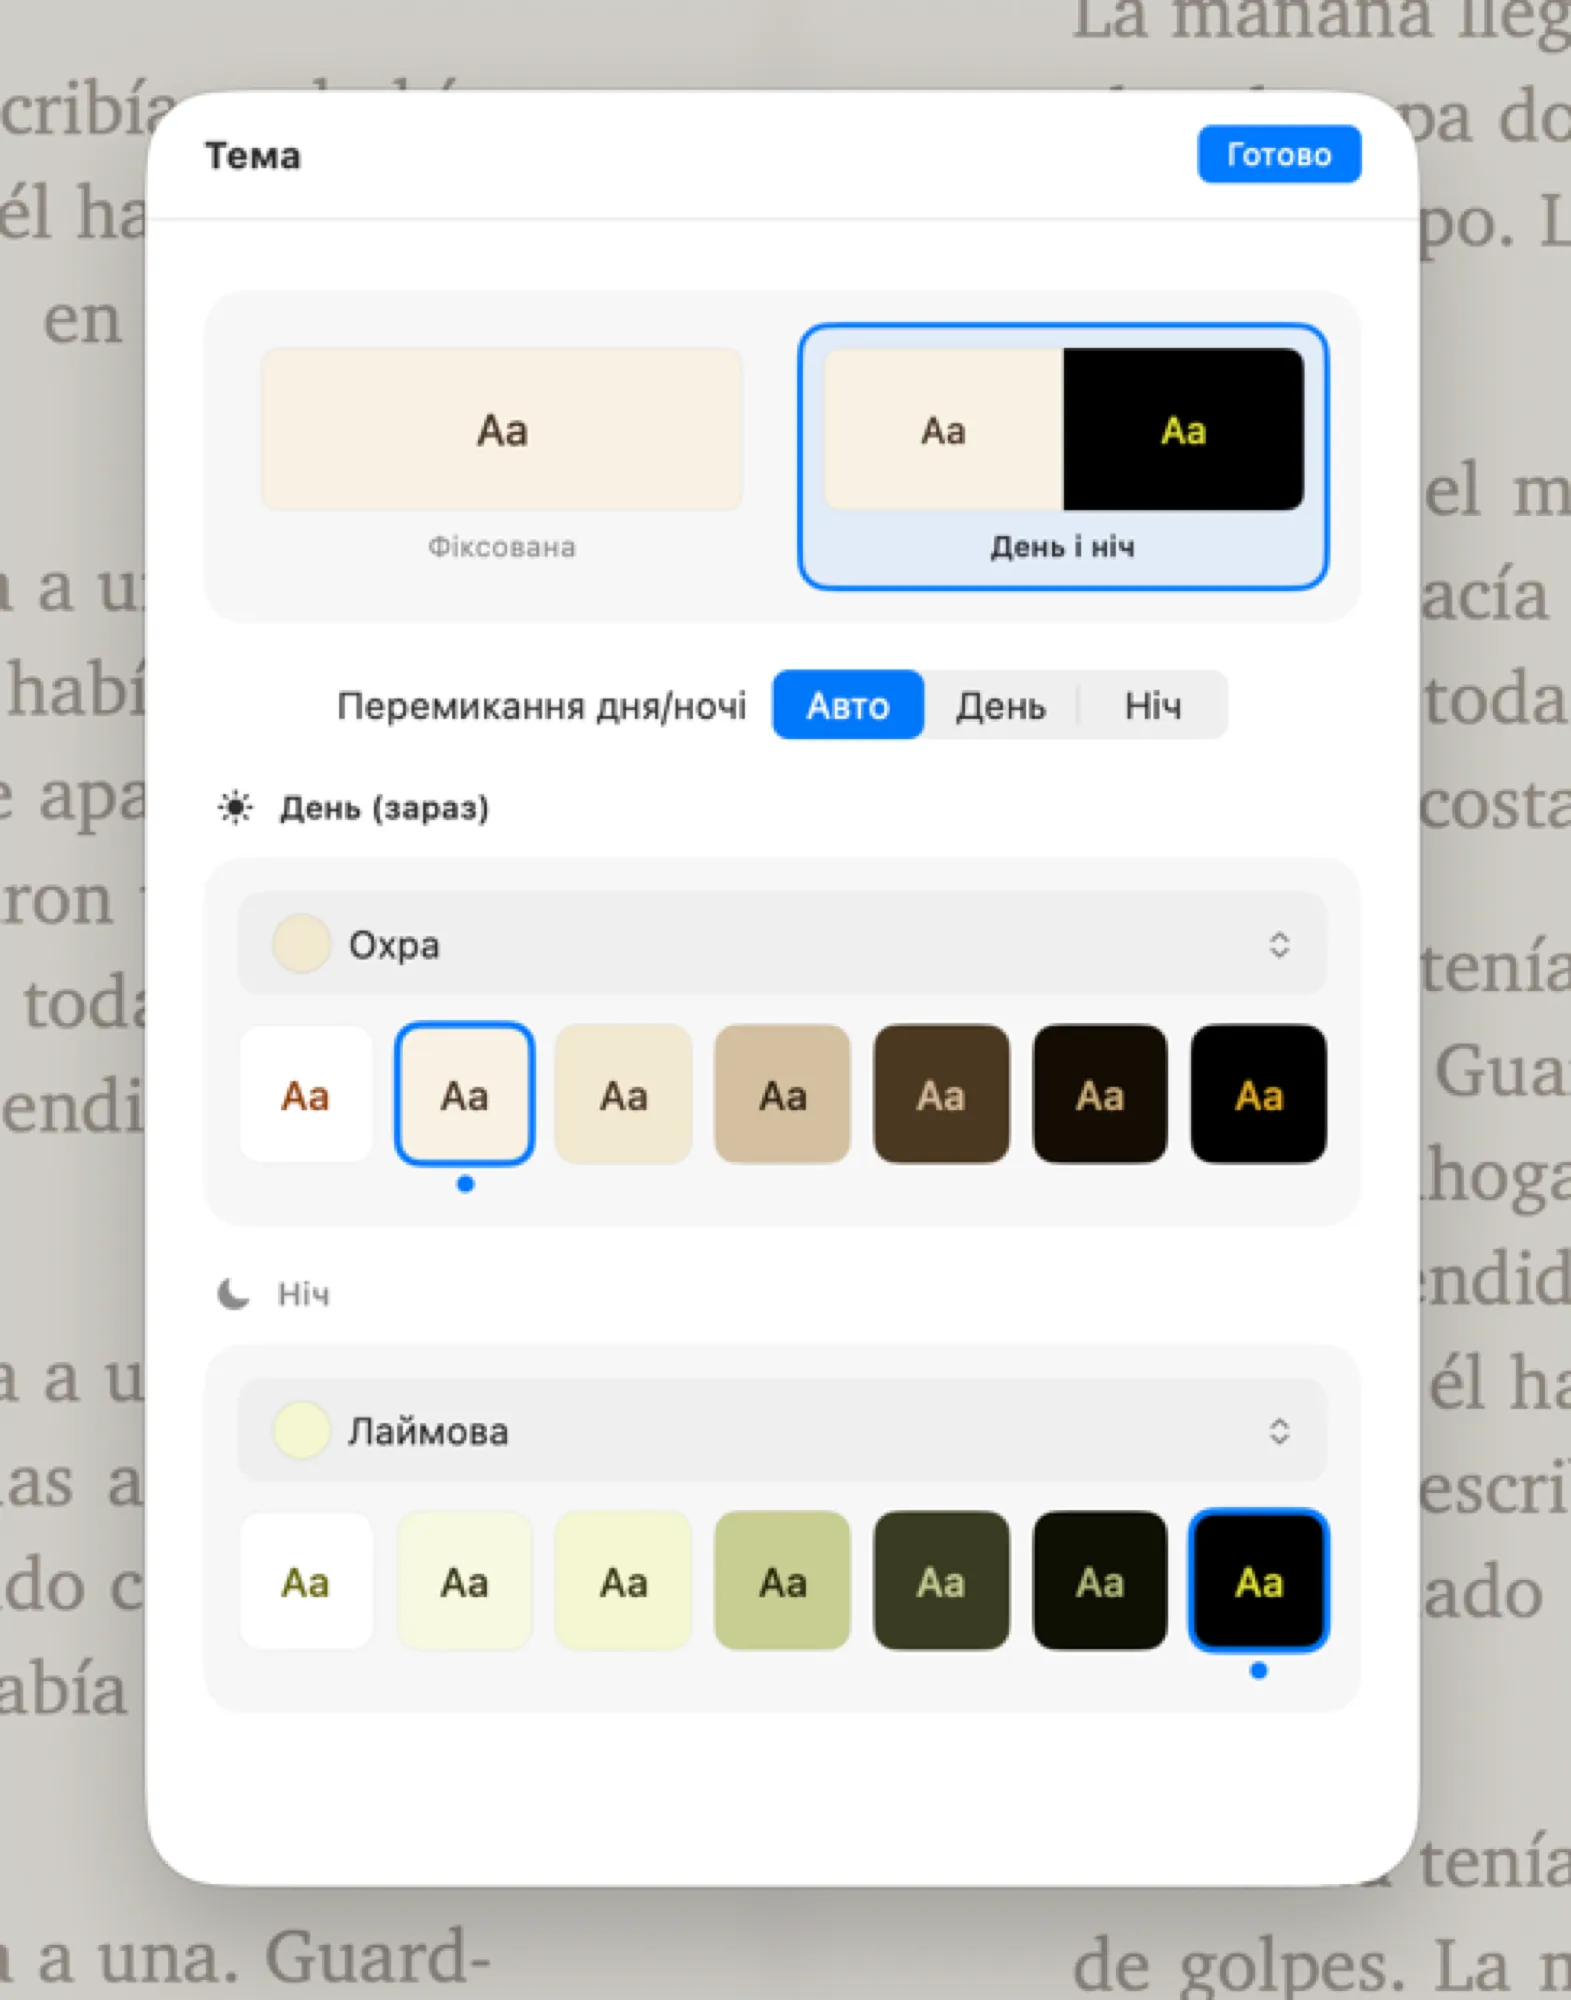
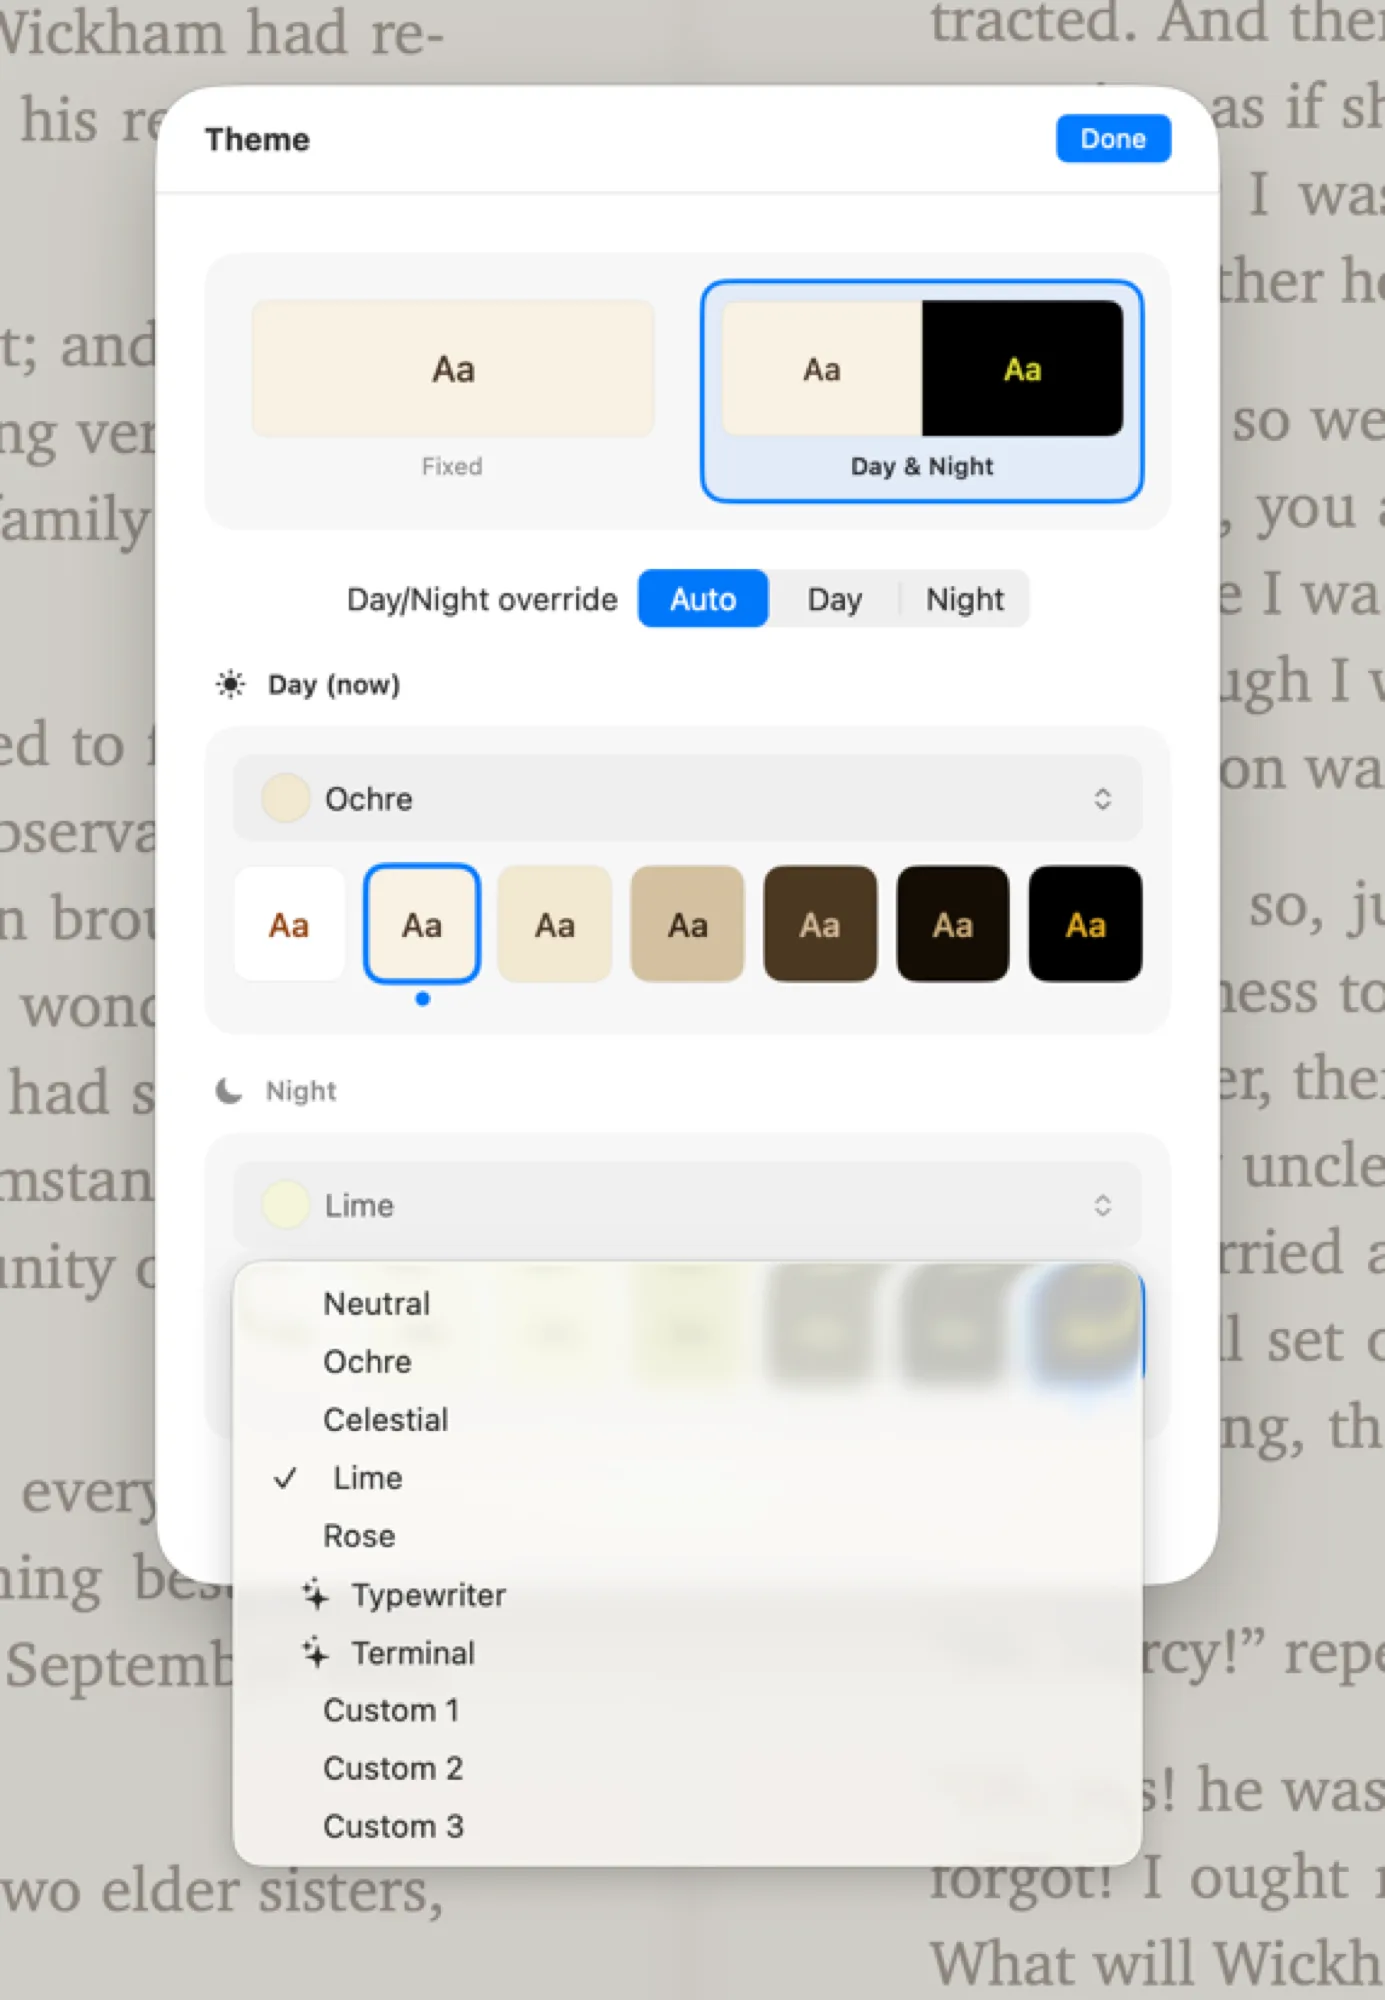
Lightbox: never display an image larger than its natural size
Cap the lightbox image at min(natural, viewport) in JS (computed on reveal +
on resize) so a screenshot is never scaled up past 100% of its own pixels —
which read as stretched/soft. The CSS max-width/max-height only capped to the
container, not to the image's intrinsic size.

Refs #1

diff --git a/js/main.js b/js/main.js
@@ -283,6 +283,21 @@
       dialog.addEventListener('click', (e) => {
         if (e.target === dialog) dialog.close();
       });
+      // Re-fit on resize while open.
+      window.addEventListener('resize', () => { if (dialog.open) fitLightboxImage(); });
+    }
+
+    // Size the image to min(natural, viewport) — NEVER upscale past 100% of the
+    // image's own pixels (a screenshot enlarged beyond its size looks soft).
+    function fitLightboxImage() {
+      const img = dialog.querySelector('img');
+      const nw = img.naturalWidth, nh = img.naturalHeight;
+      if (!nw || !nh) return;
+      const availW = window.innerWidth - 80;   // matches .lightbox-content padding (40*2)
+      const availH = window.innerHeight - 80;
+      const scale = Math.min(1, availW / nw, availH / nh);
+      img.style.width = Math.round(nw * scale) + 'px';
+      img.style.height = Math.round(nh * scale) + 'px';
     }
 
     const dialogImg = dialog.querySelector('img');
@@ -305,6 +320,7 @@
       dialogImg.alt = alt || '';
       dialogImg.src = src;
       const reveal = () => {
+        fitLightboxImage();                    // cap at 100% of natural size
         dialog.classList.remove('is-loading');
         requestAnimationFrame(() => dialogImg.classList.add('is-loaded')); // fade in
       };